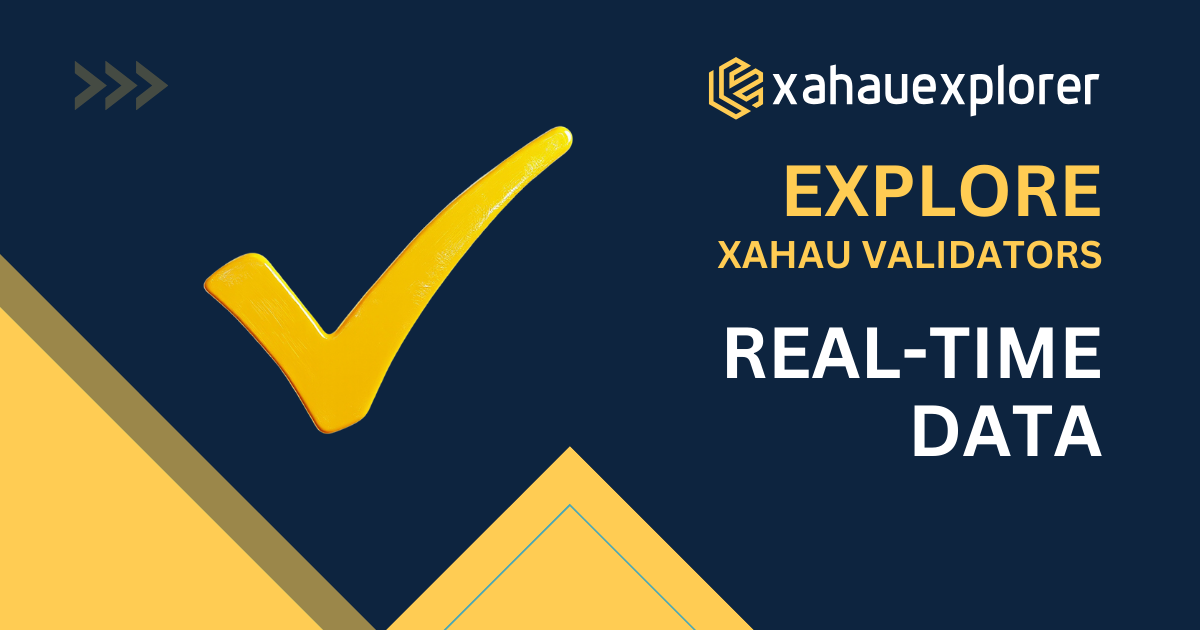
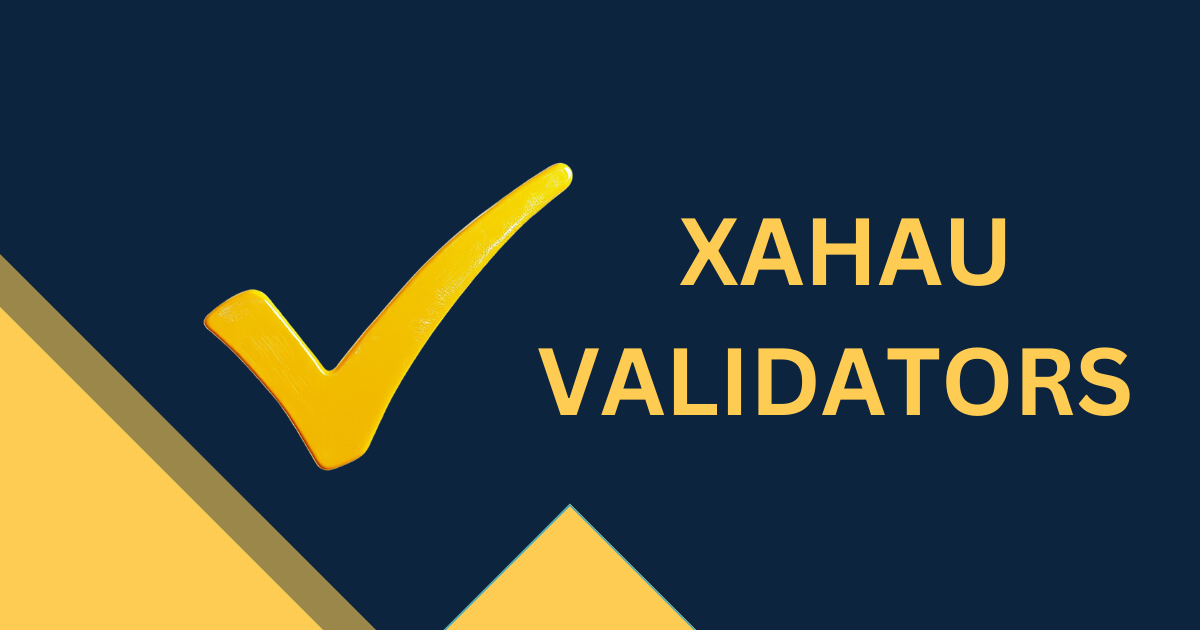
preview images (#189)
* preview images

preview images
300x157 is also added

* files names fixed

files names fixed

* Add images to SEO

---------

diff --git a/pages/nft-volumes/index.js b/pages/nft-volumes/index.js
@@ -32,7 +32,7 @@ import CheckBox from '../../components/UI/CheckBox'
 import DateAndTimeRange from '../../components/UI/DateAndTimeRange'
 import SimpleChart from '../../components/SimpleChart'
 
-import { setTabParams, stripText, isAddressOrUsername, useWidth, chartSpan } from '../../utils'
+import { setTabParams, stripText, isAddressOrUsername, useWidth, chartSpan, xahauNetwork } from '../../utils'
 import {
   amountFormat,
   shortNiceNumber,
@@ -931,6 +931,27 @@ export default function NftVolumes({
           (currencyIssuer ? ' ' + currencyIssuer : '') +
           (listTab === 'list' ? ' ' + t('tabs.list') : '') +
           (period ? ' ' + period : '')
+        }
+        images={
+          xahauNetwork
+            ? []
+            : [
+                {
+                  width: 1200,
+                  height: 630,
+                  file: 'previews/1200x630/nft-volumes.png'
+                },
+                {
+                  width: 630,
+                  height: 630,
+                  file: 'previews/630x630/nft-volumes.png'
+                },
+                {
+                  width: 300,
+                  height: 157,
+                  file: 'previews/300x157/nft-volumes.png'
+                }
+              ]
         }
       />
 

diff --git a/pages/distribution.js b/pages/distribution.js
@@ -119,7 +119,26 @@ export default function Distribution({ selectedCurrency }) {
 
   return (
     <>
-      <SEO title={t('menu.network.distribution', { nativeCurrency })} />
+      <SEO
+        title={t('menu.network.distribution', { nativeCurrency })}
+        images={[
+          {
+            width: 1200,
+            height: 630,
+            file: 'previews/1200x630/distribution.png'
+          },
+          {
+            width: 630,
+            height: 630,
+            file: 'previews/630x630/distribution.png'
+          },
+          {
+            width: 300,
+            height: 157,
+            file: 'previews/300x157/distribution.png'
+          }
+        ]}
+      />
       <div className="content-center">
         <h1 className="center">{t('menu.network.distribution', { nativeCurrency })}</h1>
         <div className="flex">

diff --git a/components/NftsComponent.js b/components/NftsComponent.js
@@ -630,6 +630,23 @@ export default function NftsComponent({
             (issuer || issuerQuery || search || t('nft-explorer.header')) +
             (rendered && mintedPeriod ? ', ' + t('table.mint-period') + ': ' + periodDescription(mintedPeriod) : '')
           }
+          images={[
+            {
+              width: 1200,
+              height: 630,
+              file: 'previews/1200x630/nft-explorer.png'
+            },
+            {
+              width: 630,
+              height: 630,
+              file: 'previews/630x630/nft-explorer.png'
+            },
+            {
+              width: 300,
+              height: 157,
+              file: 'previews/300x157/nft-explorer.png'
+            }
+          ]}
         />
       ) : (
         <>

diff --git a/pages/nft-sales.js b/pages/nft-sales.js
@@ -527,6 +527,23 @@ export default function NftSales({
           (period ? ' ' + period : periodQuery) +
           (search || searchQuery ? ', ' + t('table.name') + ': ' + (search || searchQuery) : '')
         }
+        images={[
+          {
+            width: 1200,
+            height: 630,
+            file: 'previews/1200x630/nft-sales.png'
+          },
+          {
+            width: 630,
+            height: 630,
+            file: 'previews/630x630/nft-sales.png'
+          },
+          {
+            width: 300,
+            height: 157,
+            file: 'previews/300x157/nft-sales.png'
+          }
+        ]}
       />
 
       <h1 className="center">

diff --git a/components/SEO.js b/components/SEO.js
@@ -26,6 +26,21 @@ export default function SEO({ title, titleWithNetwork, description, image, page,
   } else if (!images) {
     images = [
       {
+        width: 1200,
+        height: 630,
+        file: imagePath + 'previews/1200x630/index.png'
+      },
+      {
+        width: 630,
+        height: 630,
+        file: imagePath + 'previews/630x630/index.png'
+      },
+      {
+        width: 300,
+        height: 157,
+        file: imagePath + 'previews/300x157/index.png'
+      },
+      {
         file: imagePath + '512.png',
         width: 512,
         height: 512

diff --git a/pages/validators.js b/pages/validators.js
@@ -409,6 +409,11 @@ export default function Validators({ amendment, initialData, initialErrorMessage
             width: 630,
             height: 630,
             file: 'previews/630x630/validators.png'
+          },
+          {
+            width: 300,
+            height: 157,
+            file: 'previews/300x157/validators.png'
           }
         ]}
       />

diff --git a/pages/amms.js b/pages/amms.js
@@ -223,6 +223,11 @@ export default function Amms({
                   width: 630,
                   height: 630,
                   file: 'previews/630x630/amms.png'
+                },
+                {
+                  width: 300,
+                  height: 157,
+                  file: 'previews/300x157/amms.png'
                 }
               ]
         }

diff --git a/pages/amendments.js b/pages/amendments.js
@@ -176,6 +176,11 @@ export default function Amendment() {
             width: 630,
             height: 630,
             file: 'previews/630x630/amendments.png'
+          },
+          {
+            width: 300,
+            height: 157,
+            file: 'previews/300x157/amendments.png'
           }
         ]}
       />
